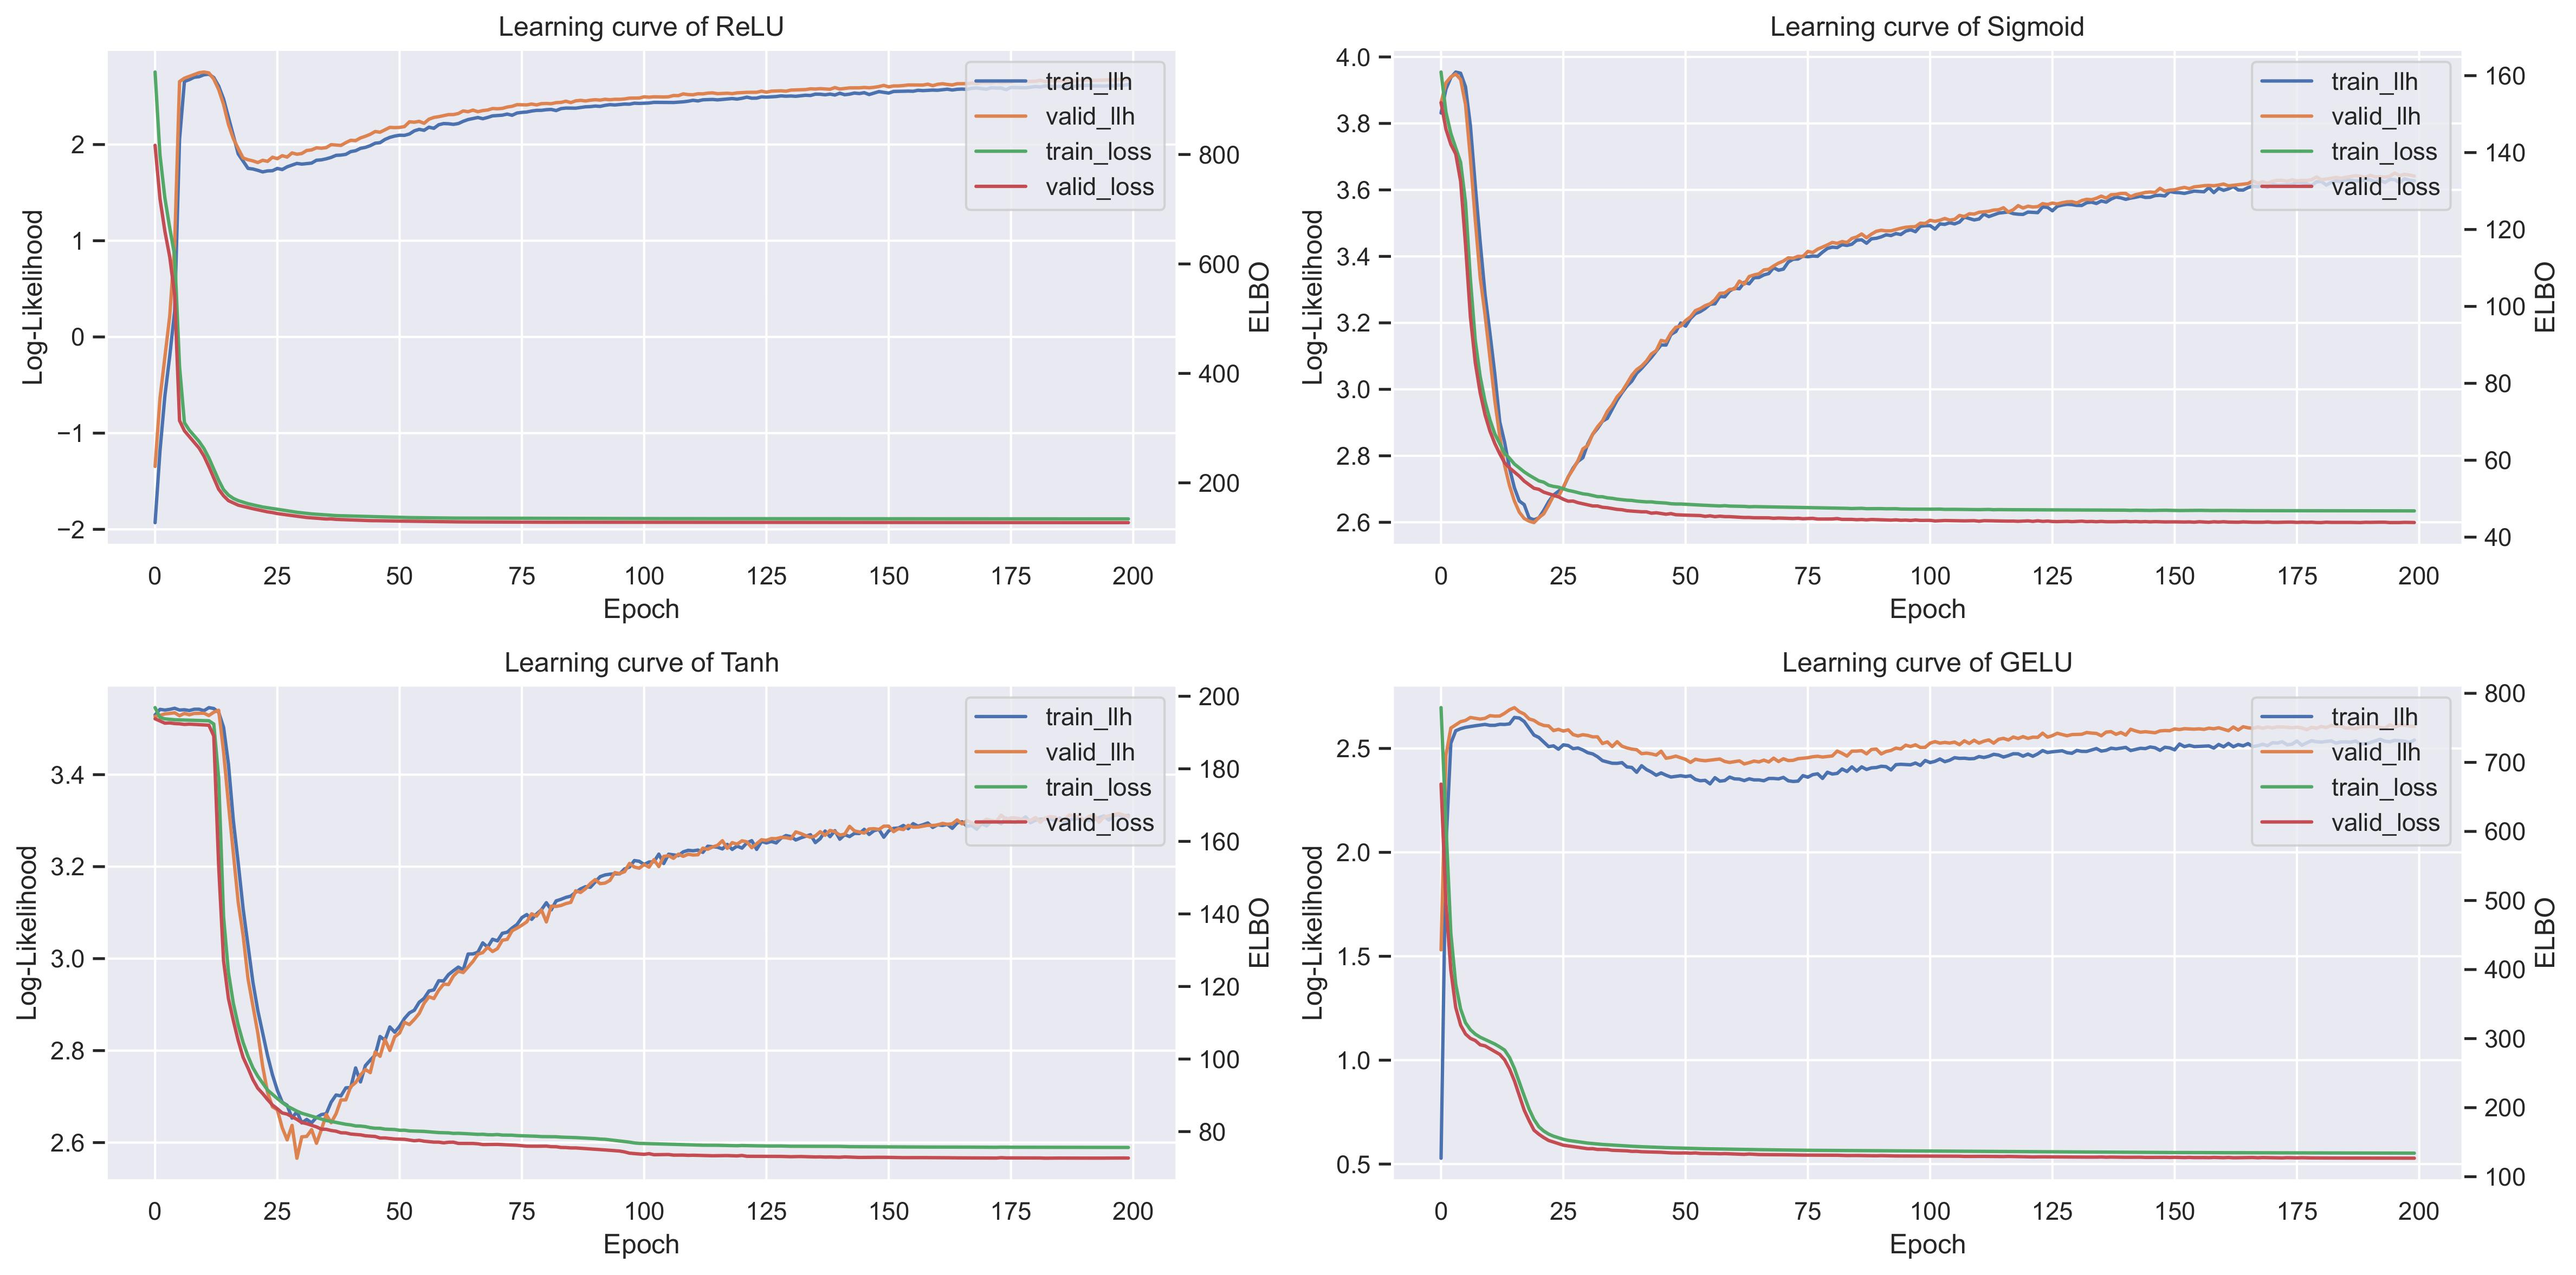
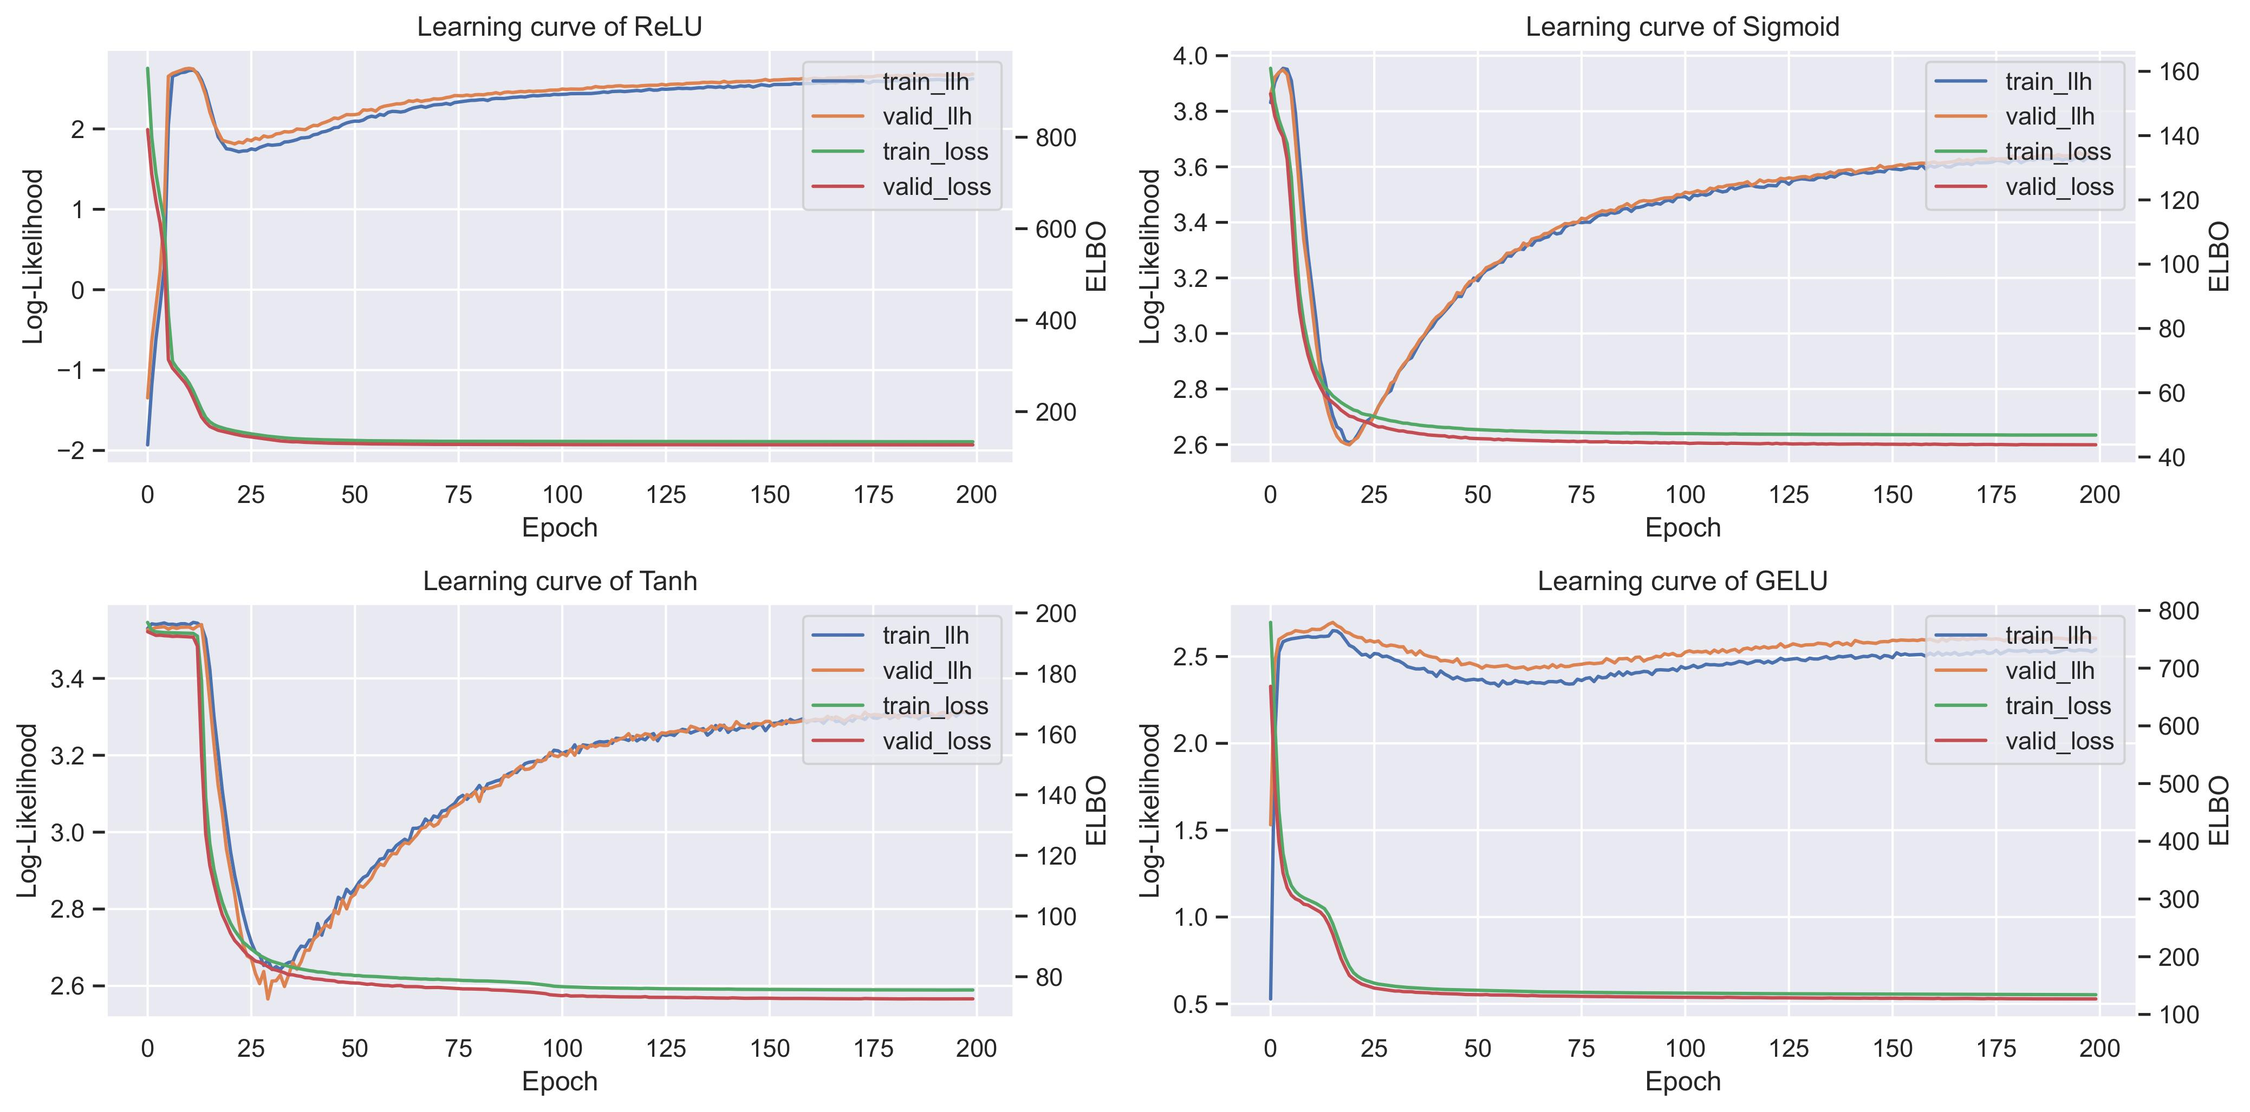
update

diff --git a/visualization/callback.py b/visualization/callback.py
@@ -12,7 +12,7 @@ def plot_callback(n):
     :return: dataframe of z and x
     """
 
-    fig, axes = plt.subplots(2, 2, figsize=(16, 8))
+    fig, axes = plt.subplots(2, 2, figsize=(14, 7))
     activations = ["ReLU", "Sigmoid", "Tanh", "GELU"]
     axes = [ax for sub_axes in axes for ax in sub_axes]
 
